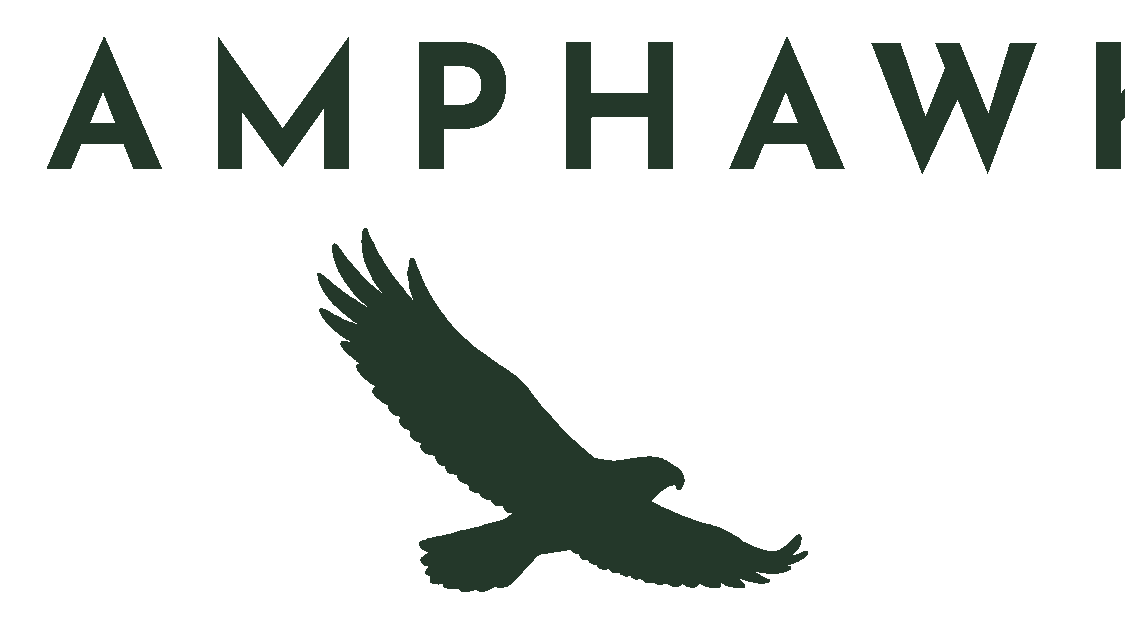
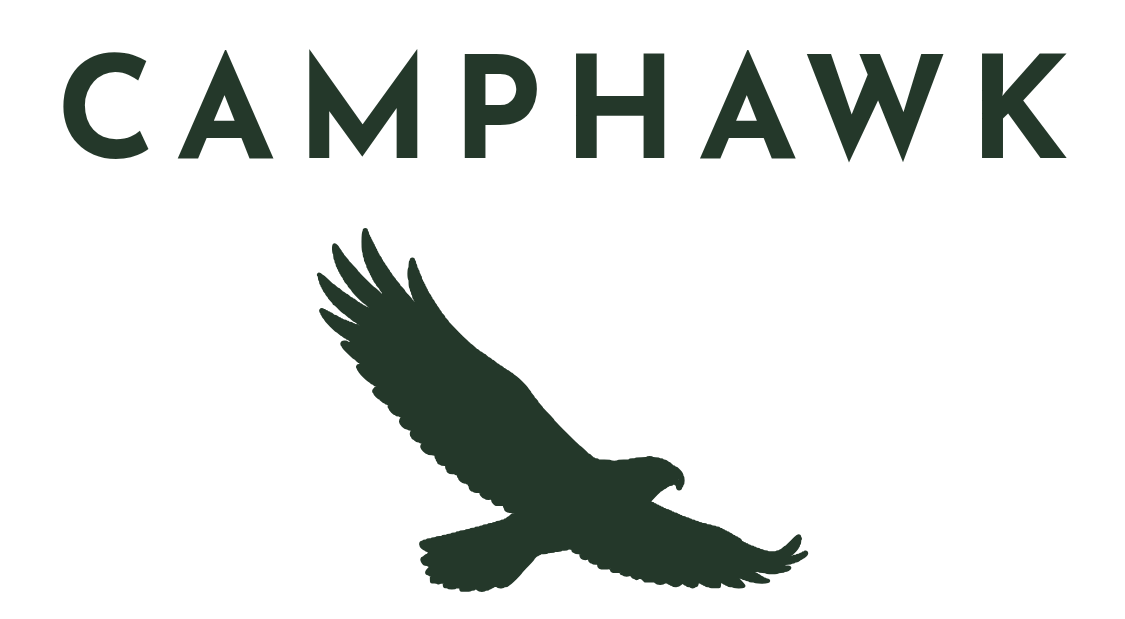
CampHawk shirts: chest wordmark fits its canvas (the C and K were cut off)
Both Still Water chest prints had lost the first and last letters: the word ran past the
600-unit canvas. Set to an exact width with textLength; chest.mjs rebuilds the chest files.
round2.mjs reads the treeline trace lazily so it can be imported.

Claude-Session: https://claude.ai/code/session_01C2tehnCx6ZyBzhaovi3gUx

Changed region(s): [[0.0311, 0.0614, 1.0, 0.2763], [0.6533, 0.9208, 0.6844, 0.9515]]

diff --git a/studio/camphawk-shirts/README.md b/studio/camphawk-shirts/README.md
@@ -72,3 +72,11 @@ Critic: 6/10 on the first pass; 8/10 after redrawing the fire, calming the refle
 the peak. The last round's fixes (hand-cut fire edges, flared tent base, cleaner strokes) are in.
 `gen.mjs` needs `NODE_USE_ENV_PROXY=1 NODE_EXTRA_CA_CERTS=/root/.ccr/ca-bundle.crt` in this container.
 Image credit used in total: $0.54 of the owner's $0.75.
+
+## Chest fix (2026-10-07)
+The chest wordmark on both Still Water shirts ran past its 3.75 in canvas, so the print files had lost the
+C and the K. It is now set to an exact width (`textLength`, 540 of 600 units, about 5 mm clear each side).
+`node chest.mjs` rebuilds both chest prints on their own (it needs the hawk traces and fonts from the
+round-1 steps above). Print check: letter corners and the hawk's narrowest feather slits are flagged,
+as before; the slits close a little on press, and the hawk still reads.
+
